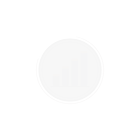
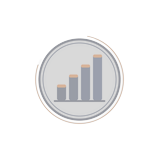
feat: increase visibility and contrast of login background pattern

Changed region(s): [[0.2, 0.2286, 0.8, 0.8]]

diff --git a/styles.css b/styles.css
@@ -1092,29 +1092,25 @@ body {
   z-index: 10;
   background-color: #070c18;
   background-image: 
-    radial-gradient(circle at 50% 35%, rgba(249, 115, 22, 0.14) 0%, transparent 65%),
-    radial-gradient(circle at 85% 85%, rgba(15, 26, 56, 0.92) 0%, transparent 70%),
+    radial-gradient(circle at 50% 35%, rgba(249, 115, 22, 0.12) 0%, transparent 60%),
     url('assets/login-tile.png');
   background-repeat: repeat;
-  background-size: auto, auto, 125px 125px;
+  background-size: auto, 140px 140px;
   overflow: hidden;
 }
 
 .auth-gate-card {
   position: relative;
   z-index: 2;
-  background: rgba(11, 21, 44, 0.90);
-  backdrop-filter: blur(24px);
-  -webkit-backdrop-filter: blur(24px);
-  border: 1px solid rgba(249, 115, 22, 0.35);
+  background: rgba(11, 21, 44, 0.94);
+  backdrop-filter: blur(28px);
+  -webkit-backdrop-filter: blur(28px);
+  border: 1px solid rgba(249, 115, 22, 0.4);
   border-radius: var(--radius-lg);
   padding: 36px 28px;
   width: 100%;
   max-width: 440px;
-  box-shadow: 0 25px 60px rgba(0, 0, 0, 0.9), 0 0 50px rgba(249, 115, 22, 0.2);
-  animation: fadeIn 0.4s ease-out;
-}
-  box-shadow: 0 25px 60px rgba(0, 0, 0, 0.85), 0 0 45px rgba(249, 115, 22, 0.18);
+  box-shadow: 0 25px 60px rgba(0, 0, 0, 0.95), 0 0 50px rgba(249, 115, 22, 0.25);
   animation: fadeIn 0.4s ease-out;
 }
 
